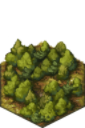
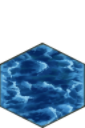
Working on map

diff --git a/static/js/directive/game-map-directive.js b/static/js/directive/game-map-directive.js
@@ -24,19 +24,13 @@ module.exports = require('js/app.js').directive('gameMap', function ($injector) 
                 icon_y_offset: 80
             };
 
-            var map = [
-                [{type: 1, objects: []}, {type: 2, objects: []}, {type: 1, objects: []}, {type: 2, objects: []}, {type: 1, objects: []}, {type: 2, objects: []}, {type: 1, objects: []}, {type: 1, objects: []}],
-                [{type: 1, objects: []}, {type: 2, objects: []}, {type: 1, objects: []}, {type: 2, objects: []}, {type: 1, objects: []}, {type: 2, objects: []}, {type: 1, objects: []}, {type: 1, objects: []}],
-                [{type: 1, objects: []}, {type: 2, objects: []}, {type: 1, objects: []}, {type: 2, objects: []}, {type: 1, objects: []}, {type: 2, objects: []}, {type: 1, objects: []}, {type: 1, objects: []}],
-                [{type: 1, objects: []}, {type: 2, objects: []}, {type: 1, objects: []}, {type: 2, objects: []}, {type: 1, objects: []}, {type: 2, objects: []}, {type: 1, objects: []}, {type: 1, objects: []}],
-                [{type: 1, objects: []}, {type: 2, objects: []}, {type: 1, objects: []}, {type: 2, objects: []}, {type: 1, objects: []}, {type: 2, objects: []}, {type: 1, objects: []}, {type: 1, objects: []}],
-                [{type: 1, objects: []}, {type: 2, objects: []}, {type: 1, objects: []}, {type: 2, objects: []}, {type: 1, objects: []}, {type: 2, objects: []}, {type: 1, objects: []}, {type: 1, objects: []}],
-                [{type: 1, objects: []}, {type: 2, objects: []}, {type: 1, objects: []}, {type: 2, objects: []}, {type: 1, objects: []}, {type: 2, objects: []}, {type: 1, objects: []}, {type: 1, objects: []}]
-            ];
-
             function preload() {
                 game.load.image('map_img_1', require('image/map/1.png'));
-                game.load.image('map_img_2', require('image/map/2.png'));
+                game.load.image('map_img_6', require('image/map/6.png'));
+                game.load.image('map_img_7', require('image/map/7.png'));
+                game.load.image('map_img_15', require('image/map/15.png'));
+                game.load.image('map_img_16', require('image/map/16.png'));
+                game.load.image('map_img_17', require('image/map/17.png'));
 
                 game.load.image('map_icon_1', require('image/map/icon/1.png'));
                 game.load.image('map_icon_2', require('image/map/icon/2.png'));
@@ -45,6 +39,8 @@ module.exports = require('js/app.js').directive('gameMap', function ($injector) 
             }
 
             function create() {
+                console.log(scope.position);
+
                 renderMap();
             }
 
@@ -76,17 +72,17 @@ module.exports = require('js/app.js').directive('gameMap', function ($injector) 
                         var x_pos = x * tile.width - width_offset;
                         var y_pos = y * tile.height - y * (tile.height_offset + (tile.height / 3) / 2) - height_offset - 60;
                         //Drawing the tile
-                        game.add.sprite(x_pos, y_pos, 'map_img_' + map[y][x].type);
+                        game.add.sprite(x_pos, y_pos, 'map_img_' + scope.position.map[y][x].background);
 
                         //Drawing objects
-                        for (var objId = 0; objId < map[y][x].objects.length; objId++) {
+                        for (var objId = 0; objId < scope.position.map[y][x].objects.length; objId++) {
                             //game.add.sprite(x_pos + objId * (tile.icon_width + 2) + tile.icon_x_offset, y_pos + tile.icon_y_offset, 'map_icon_' + map[y][x].objects[objId]);
-                            game.add.sprite(x_pos + tile.width - objId * (tile.icon_width + 2) - tile.icon_x_offset - tile.icon_width, y_pos + tile.icon_y_offset, 'map_icon_' + map[y][x].objects[objId]);
+                            game.add.sprite(x_pos + tile.width - objId * (tile.icon_width + 2) - tile.icon_x_offset - tile.icon_width, y_pos + tile.icon_y_offset, 'map_icon_' + scope.position.map[y][x].objects[objId]);
                         }
 
                         //Drawing the tile pos
                         if (env.debug) {
-                            game.add.text(x_pos + (tile.width / 2) - 24, y_pos + (tile.height / 2) - 24, "x: " + x + " y: " + y + " img: " + map[y][x], {font: "12px Arial", fill: "#ff0044", align: "center"});
+                            game.add.text(x_pos + (tile.width / 2) - 24, y_pos + (tile.height / 2) - 24, "x: " + x + " y: " + y + " img: " + scope.position.map[y][x], {font: "12px Arial", fill: "#ff0044", align: "center"});
                         }
 
                         if (x == 3 && y == 3) {
@@ -103,6 +99,9 @@ module.exports = require('js/app.js').directive('gameMap', function ($injector) 
             scope.$on('position', function (event, position) {
                 //sprite.x = position.x * 48;
                 //sprite.y = position.y * 48;
+                console.log(position);
+                scope.position = position;
+                renderMap();
 
                 //TODO: add map changing
             });
